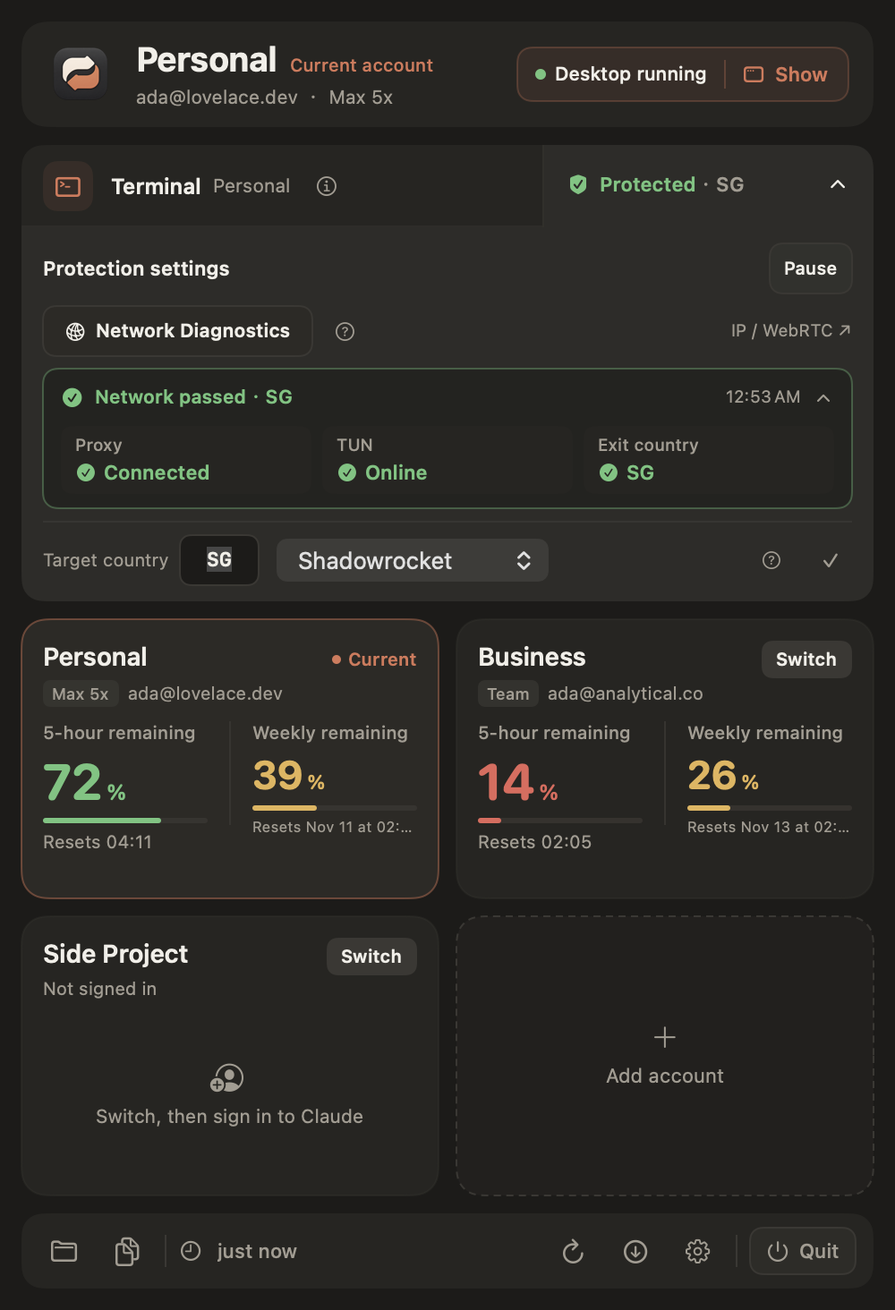
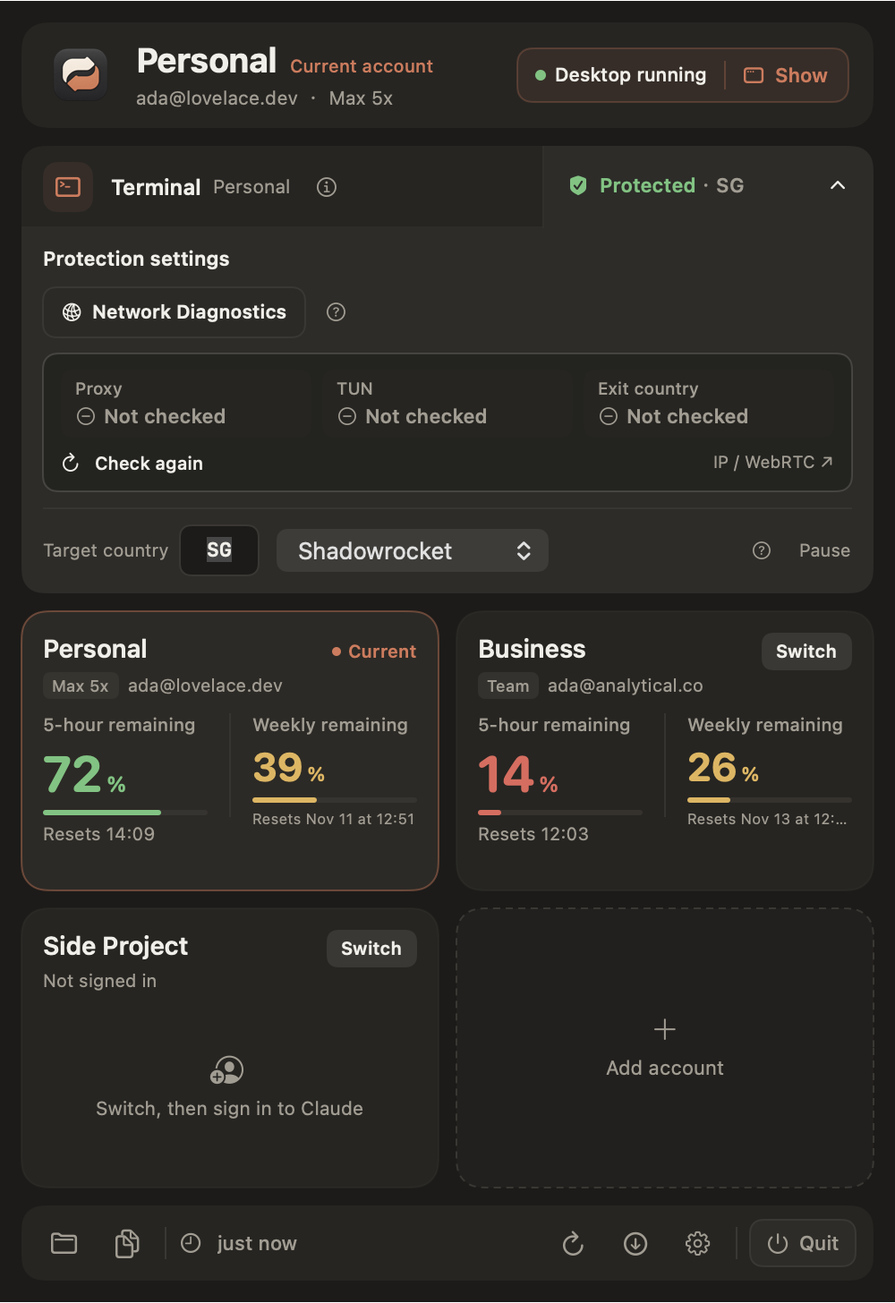
ui: unify network diagnostics and protect active guard

diff --git a/App/ProtectionView.swift b/App/ProtectionView.swift
@@ -704,8 +704,6 @@ struct TerminalProtectionCard: View {
         VStack(alignment: .leading, spacing: 0) {
             HStack(spacing: 0) {
                 TerminalStrip(store: store, showsSecondaryLine: $terminalShowsSecondaryLine)
-                    // The divider closes off the summary side only, so the tinted column runs
-                    // straight into the panel below it like a tab.
                     .overlay(alignment: .bottom) {
                         if showSettings { Rectangle().fill(Color.stroke.opacity(0.4)).frame(height: 1) }
                     }
@@ -754,9 +752,109 @@ struct TerminalProtectionCard: View {
         }
     }
 
+    /// One action row before the first check; the same row becomes the result summary afterwards.
+    private var diagnosticRow: some View {
+        let hasReport = controller.lastCheckReport != nil
+        return HStack(spacing: 5) {
+            Button {
+                if controller.lastCheckReport == nil {
+                    Task { await controller.checkNow() }
+                } else {
+                    resultsExpanded.toggle()
+                }
+            } label: {
+                HStack(spacing: 5) {
+                    if controller.checking {
+                        ProgressView().controlSize(.mini)
+                    } else {
+                        Image(systemName: controller.lastCheckReport == nil ? "network" : displayVerdict.icon)
+                            .font(.system(size: 10, weight: .semibold))
+                    }
+                    Text(controller.checking ? t("common.checking")
+                         : controller.lastCheckReport == nil ? t("protection.checkOnly") : displayVerdict.text)
+                        .lineLimit(1)
+                    if let date = controller.lastCheckReport?.checkedAt, !controller.checking {
+                        Text(AppLocalization.date(date, language: language, timeStyle: .short))
+                            .font(.system(size: 9.5)).foregroundColor(.sub).lineLimit(1)
+                    }
+                    if controller.lastCheckReport != nil, !controller.checking {
+                        Image(systemName: resultsExpanded ? "chevron.up" : "chevron.down")
+                            .font(.system(size: 8, weight: .semibold)).foregroundColor(.sub)
+                    }
+                }
+                .font(.system(size: 10.5, weight: .semibold))
+                .foregroundColor(controller.lastCheckReport == nil ? .txt : displayVerdict.color)
+                .padding(.horizontal, 10).frame(height: 28)
+                    .background(RoundedRectangle(cornerRadius: 7)
+                        .fill(hasReport ? Color.bg.opacity(0.55) : Color.cardHi))
+                    .overlay(RoundedRectangle(cornerRadius: 7)
+                        .stroke(hasReport ? displayVerdict.color.opacity(0.25) : Color.stroke, lineWidth: 1))
+                .contentShape(Rectangle())
+            }
+            .buttonStyle(.plain)
+            .disabled(operationLocked || controller.working || controller.checking)
+            .opacity(operationLocked || controller.working || controller.checking ? 0.55 : 1)
+            .help(reportOriginHelp ?? t("protection.checkOnlyHelp"))
+            .accessibilityLabel(controller.lastCheckReport == nil ? t("protection.checkOnly")
+                                : t("protection.resultsAccessibility", arguments: ["result": displayVerdict.text]))
+            .accessibilityHint(controller.lastCheckReport == nil ? t("protection.checkOnlyHelp")
+                               : t(resultsExpanded ? "protection.collapseResults" : "protection.expandResults"))
+            Button { showCheckHelp.toggle() } label: {
+                Image(systemName: "questionmark.circle")
+                    .font(.system(size: 10.5))
+                    .foregroundColor(helpHover || showCheckHelp ? .txt : .sub)
+                    .frame(width: 24, height: 28)
+                    .contentShape(Rectangle())
+            }
+            .buttonStyle(.plain)
+            .onHover { helpHover = $0 }
+            .help(t("protection.checkHelpSummary"))
+            .accessibilityLabel(t("protection.checkHelpButton"))
+            .popover(isPresented: $showCheckHelp, arrowEdge: .bottom) { checkHelpContent }
+            Spacer(minLength: 0)
+        }
+    }
+
+    private var diagnosticDetails: some View {
+        VStack(alignment: .leading, spacing: 8) {
+            if controller.lastCheckReport != nil, resultsExpanded, !controller.checking {
+                VStack(alignment: .leading, spacing: 7) {
+                    if controller.lastCheckReport?.validationMessage == nil {
+                        HStack(spacing: 6) {
+                            ForEach(networkItems, id: \.title) { networkCell($0) }
+                        }
+                        .opacity(resultStale ? 0.45 : 1)
+                    }
+                    if let note = reportContextNote {
+                        Text(note).font(.system(size: 9.5)).foregroundColor(.warn)
+                            .fixedSize(horizontal: false, vertical: true)
+                    }
+                    HStack(spacing: 8) {
+                        Button { Task { await controller.checkNow() } } label: {
+                            Label(t("protection.recheck"), systemImage: "arrow.clockwise")
+                                .font(.system(size: 10, weight: .medium))
+                        }
+                        .buttonStyle(.plain).foregroundColor(.txt)
+                        .disabled(operationLocked || controller.working)
+                        .help(t("protection.checkOnlyHelp"))
+                        Spacer(minLength: 0)
+                        Link(destination: URL(string: "https://ip.net.coffee/claude/")!) {
+                            Text("IP / WebRTC ↗").font(.system(size: 9.5)).foregroundColor(.sub)
+                        }
+                        .buttonStyle(.plain)
+                        .help(t("protection.webCheckHelp"))
+                        .accessibilityLabel(t("protection.webCheckAccessibility"))
+                    }
+                }
+                .padding(.horizontal, 10).padding(.vertical, 9)
+                .background(RoundedRectangle(cornerRadius: 8).fill(Color.bg.opacity(0.3)))
+            }
+        }
+    }
+
     private var settings: some View {
         let scopeHelp = t(controller.desktopScope == .api ? "protection.apiServiceControlHelp" : "protection.scopeExplanation")
-        return VStack(alignment: .leading, spacing: 7) {
+        return VStack(alignment: .leading, spacing: 9) {
             if hasNotices {
                 VStack(alignment: .leading, spacing: 8) { notices }
             }
@@ -767,49 +865,10 @@ struct TerminalProtectionCard: View {
                     .help(scopeHelp)
                     .accessibilityHint(scopeHelp)
                 Spacer(minLength: 8)
-                protectionAction()
+                if !controller.enabled || needsRetry { protectionAction() }
             }
-            HStack(spacing: 4) {
-                Button { Task { await controller.checkNow() } } label: {
-                    HStack(spacing: 5) {
-                        Image(systemName: "network").font(.system(size: 10, weight: .semibold))
-                        Text(t(controller.checking ? "common.checking" : "protection.checkOnly"))
-                            .font(.system(size: 10.5, weight: .semibold))
-                    }
-                    .padding(.horizontal, 12)
-                    .frame(height: 28)
-                    .foregroundColor(.txt)
-                    .background(RoundedRectangle(cornerRadius: 7).fill(Color.cardHi))
-                    .overlay(RoundedRectangle(cornerRadius: 7).stroke(Color.stroke, lineWidth: 1))
-                    .contentShape(Rectangle())
-                }
-                .buttonStyle(.plain).disabled(operationLocked || controller.working || controller.checking)
-                .opacity(operationLocked || controller.working || controller.checking ? 0.55 : 1)
-                .help(t("protection.checkOnlyHelp"))
-                .accessibilityHint(t("protection.checkOnlyHelp"))
-                Button { showCheckHelp.toggle() } label: {
-                    Image(systemName: "questionmark.circle")
-                        .font(.system(size: 10.5))
-                        .foregroundColor(helpHover || showCheckHelp ? .txt : .sub)
-                        .frame(width: 28, height: 28)
-                        .background(RoundedRectangle(cornerRadius: 7)
-                            .fill(Color.white.opacity(helpHover || showCheckHelp ? 0.06 : 0)))
-                        .contentShape(Rectangle())
-                }
-                .buttonStyle(.plain)
-                .onHover { helpHover = $0 }
-                .help(t("protection.checkHelpSummary"))
-                .accessibilityLabel(t("protection.checkHelpButton"))
-                .popover(isPresented: $showCheckHelp, arrowEdge: .bottom) { checkHelpContent }
-                Spacer(minLength: 8)
-                Link(destination: URL(string: "https://ip.net.coffee/claude/")!) {
-                    Text("IP / WebRTC ↗").font(.system(size: 9.5)).foregroundColor(.sub)
-                }
-                .buttonStyle(.plain)
-                .help(t("protection.webCheckHelp"))
-                .accessibilityLabel(t("protection.webCheckAccessibility"))
-            }
-            checkResults
+            diagnosticRow
+            diagnosticDetails
             Divider().opacity(0.45)
             HStack(alignment: .center, spacing: 10) {
                 HStack(spacing: 6) {
@@ -869,11 +928,15 @@ struct TerminalProtectionCard: View {
                         .opacity(operationLocked || controller.working ? 0.55 : 1)
                         .help(t("protection.saveHelp"))
                     } else {
-                        Image(systemName: "checkmark")
-                            .font(.system(size: 9, weight: .semibold)).foregroundColor(.sub)
-                            .frame(width: 24, height: 28)
-                            .help(t("protection.savedHelp"))
-                            .accessibilityHint(t("protection.savedHelp"))
+                        Button(action: runProtectionAction) {
+                            Text(primaryProtectionTitle)
+                                .font(.system(size: 10)).foregroundColor(.sub)
+                                .frame(height: 28).contentShape(Rectangle())
+                        }
+                        .buttonStyle(.plain)
+                        .disabled(operationLocked || controller.working)
+                        .help(t("protection.primaryHelp"))
+                        .accessibilityLabel(primaryProtectionTitle)
                     }
                 }
             }
@@ -884,7 +947,7 @@ struct TerminalProtectionCard: View {
                     .padding(.top, -4)
             }
         }
-        .padding(.horizontal, 12).padding(.vertical, 9)
+        .padding(.horizontal, 12).padding(.vertical, 10)
         .frame(maxWidth: .infinity, alignment: .leading)
     }
 }

diff --git a/App/AppLocalization.swift b/App/AppLocalization.swift
@@ -745,6 +745,7 @@ enum AppLocalization {
             "protection.webCheckHelp": "第三方网页体检，结果仅供参考，不作为打开 Claude 的门禁",
             "protection.webCheckAccessibility": "第三方 IP 与 WebRTC 体检，仅供参考",
             "protection.checkOnly": "网络诊断",
+            "protection.recheck": "重新诊断",
             "protection.checkOnlyHelp": "只读检查当前输入；不保存设置、不改变保护状态，也不打开 Claude。诊断结果以本卡片为准。",
             "protection.checkResultsTitle": "结果判定",
             "protection.checkResultsHelp": "结果仅属本次诊断；打开或切换会重新检查。手动诊断不改变保护状态。",
@@ -1139,6 +1140,7 @@ enum AppLocalization {
             "protection.webCheckHelp": "Third-party web check for reference only; not used by the Claude launch gate",
             "protection.webCheckAccessibility": "Third-party IP and WebRTC check, for reference only",
             "protection.checkOnly": "Network Diagnostics",
+            "protection.recheck": "Check again",
             "protection.checkOnlyHelp": "Read-only check of the current input. Does not save settings, change protection, or open Claude. Results belong to this check.",
             "protection.checkResultsTitle": "Results",
             "protection.checkResultsHelp": "Results are for this diagnostic only. Opening or switching rechecks. Manual diagnostics do not change protection.",

diff --git a/scripts/fixtures/controller-check.swift b/scripts/fixtures/controller-check.swift
@@ -288,6 +288,14 @@ actor FixtureGuardWorker: GuardWorking {
   require(demo.operationError != nil && demo.lastDecision == original && demo.guardOnline, "invalid input cannot replace runtime health")
   demo.clearOperationError(); demo.disable(); demo.country = "SG"; await demo.checkNow()
   require(!demo.enabled && !demo.guardOnline && demo.lastCheckReport?.passed == true, "readonly result cannot enable protection")
+  await demo.enable()
+  await demo.protectCurrentDesktop()
+  let protectedDecision = demo.lastDecision
+  let protectedGuardTime = demo.guardCheckedAt
+  await demo.checkNow()
+  require(demo.enabled && demo.guardOnline && demo.desktopManaged && demo.lastDecision == protectedDecision
+          && demo.guardCheckedAt == protectedGuardTime,
+          "diagnosing while protected preserves the switch, desktop binding and guard decision")
   let recordedGuardTime = demo.guardCheckedAt
   demo.country = "JP"; await demo.checkNow()
   require(demo.activeCountry == "SG" && demo.lastCheckReport?.passed == false, "draft target is not saved target")

diff --git a/scripts/test-developer-id-release.py b/scripts/test-developer-id-release.py
@@ -22,8 +22,8 @@ class SigningChecks(unittest.TestCase):
         self.assertEqual(info["CFBundleIdentifier"], "dev.claudeswitcher.candidate")
         self.assertEqual(info["CFBundleShortVersionString"], "1.3.6")
         self.assertEqual(info["CSReleaseChannel"], "preview")
-        self.assertEqual(info["CSReleaseVersion"], "1.3.6-rc.11")
-        self.assertEqual(info["CFBundleVersion"], "20261109.11.0")
+        self.assertEqual(info["CSReleaseVersion"], "1.3.6-rc.12")
+        self.assertEqual(info["CFBundleVersion"], "20261109.12.0")
         self.assertIn("预览", info["CFBundleDisplayName"])
         self.assertIn("预览", info["CFBundleName"])
         self.assertFalse(any(k.startswith("CSPreview") for k in info))
@@ -99,8 +99,8 @@ class SigningChecks(unittest.TestCase):
             with patch.object(release, "ROOT", root), patch.object(release, "pinned_team", return_value="FAKE123456"), \
                  patch.object(release, "run", side_effect=fake_run), patch.object(sys, "argv", ["release", "prepare"]):
                 release.main()
-            manifest = json.loads((root / "dist/developer-id/1.3.6-rc.11/RELEASE-MANIFEST.json").read_text())
-            self.assertEqual(manifest["release"], "1.3.6-rc.11")
+            manifest = json.loads((root / "dist/developer-id/1.3.6-rc.12/RELEASE-MANIFEST.json").read_text())
+            self.assertEqual(manifest["release"], "1.3.6-rc.12")
             self.assertEqual(manifest["candidateCommit"], "c" * 40)
             self.assertEqual(Path(manifest["appPath"]).name, "Claude Switcher Preview.app")
             self.assertEqual(release.DR_BASELINE_APP_NAME, "Claude Switcher Preview.app")

diff --git a/scripts/developer-id-release.py b/scripts/developer-id-release.py
@@ -10,8 +10,8 @@ import subprocess
 import sys
 
 ROOT = Path(__file__).resolve().parent.parent
-RELEASE = "1.3.6-rc.11"
-BUILD = "20261109.11.0"
+RELEASE = "1.3.6-rc.12"
+BUILD = "20261109.12.0"
 DR_BASELINE_DIRECTORY = ROOT / "dist/developer-id/1.3.6-rc.6-final"
 DR_BASELINE_APP_NAME = "Claude Switcher Preview.app"
 BUNDLE_ID = "dev.claudeswitcher.candidate"

diff --git a/README.en.md b/README.en.md
@@ -14,9 +14,9 @@ Accounts, usage, sessions and network checks meet in one place.
 [![License](https://img.shields.io/github/license/liuquanqing/claude-switcher)](LICENSE)
 [![macOS checks](https://github.com/liuquanqing/claude-switcher/actions/workflows/ci.yml/badge.svg)](https://github.com/liuquanqing/claude-switcher/actions/workflows/ci.yml)
 
-[![Download macOS DMG](https://img.shields.io/badge/macOS-Download_DMG-C66B4E?style=for-the-badge&logo=apple&logoColor=white)](https://github.com/liuquanqing/claude-switcher/releases/download/v1.3.6-rc.11/ClaudeSwitcher-1.3.6-rc.11-arm64-developer-id-preview.dmg)
+[![Download macOS DMG](https://img.shields.io/badge/macOS-Download_DMG-C66B4E?style=for-the-badge&logo=apple&logoColor=white)](https://github.com/liuquanqing/claude-switcher/releases/download/v1.3.6-rc.12/ClaudeSwitcher-1.3.6-rc.12-arm64-developer-id-preview.dmg)
 
-**1.3.6 RC11 · Preview** · Apple Silicon · macOS 13+
+**1.3.6 RC12 · Preview** · Apple Silicon · macOS 13+
 
 [Download](#download) · [Features](#features) · [Quick start](#quick-start) · [Scope](#scope) · [中文](README.md)
 
@@ -80,13 +80,13 @@ All account details in these screenshots are fictional. See [bilingual protectio
 
 ## Download
 
-Version 1.3.6 RC11 refreshes subscription usage from Desktop without requiring CLI sign-in, improves CLI reuse and backup recovery, and simplifies terminal status, session import and protection settings. See [release notes](docs/releases/1.3.6-rc.11.md).
+Version 1.3.6 RC12 refreshes subscription usage from Desktop without requiring CLI sign-in, improves CLI reuse and backup recovery, and simplifies terminal status, session import and protection settings. See [release notes](docs/releases/1.3.6-rc.12.md).
 
-**[Download Claude Switcher 1.3.6 RC11 · macOS DMG](https://github.com/liuquanqing/claude-switcher/releases/download/v1.3.6-rc.11/ClaudeSwitcher-1.3.6-rc.11-arm64-developer-id-preview.dmg)**
+**[Download Claude Switcher 1.3.6 RC12 · macOS DMG](https://github.com/liuquanqing/claude-switcher/releases/download/v1.3.6-rc.12/ClaudeSwitcher-1.3.6-rc.12-arm64-developer-id-preview.dmg)**
 
 For **Apple Silicon (M1 or newer) · macOS 13+**. Open the DMG and drag `Claude Switcher.app` to Applications.
 
-[Release notes](https://github.com/liuquanqing/claude-switcher/releases/tag/v1.3.6-rc.11) · [SHA256 checksums](https://github.com/liuquanqing/claude-switcher/releases/download/v1.3.6-rc.11/SHA256SUMS) · [All releases](https://github.com/liuquanqing/claude-switcher/releases)
+[Release notes](https://github.com/liuquanqing/claude-switcher/releases/tag/v1.3.6-rc.12) · [SHA256 checksums](https://github.com/liuquanqing/claude-switcher/releases/download/v1.3.6-rc.12/SHA256SUMS) · [All releases](https://github.com/liuquanqing/claude-switcher/releases)
 
 This prerelease is Developer ID signed and notarized by Apple. Normal first-open and Keychain prompts may still apply. [Stable 1.3.5](https://github.com/liuquanqing/claude-switcher/releases/tag/v1.3.5) remains available; see each release for signing status and [the installation guide](docs/INSTALL.md).
 

diff --git a/README.md b/README.md
@@ -14,9 +14,9 @@
 [![License](https://img.shields.io/github/license/liuquanqing/claude-switcher)](LICENSE)
 [![macOS checks](https://github.com/liuquanqing/claude-switcher/actions/workflows/ci.yml/badge.svg)](https://github.com/liuquanqing/claude-switcher/actions/workflows/ci.yml)
 
-[![下载 macOS DMG](https://img.shields.io/badge/macOS-%E4%B8%8B%E8%BD%BD_DMG-C66B4E?style=for-the-badge&logo=apple&logoColor=white)](https://github.com/liuquanqing/claude-switcher/releases/download/v1.3.6-rc.11/ClaudeSwitcher-1.3.6-rc.11-arm64-developer-id-preview.dmg)
+[![下载 macOS DMG](https://img.shields.io/badge/macOS-%E4%B8%8B%E8%BD%BD_DMG-C66B4E?style=for-the-badge&logo=apple&logoColor=white)](https://github.com/liuquanqing/claude-switcher/releases/download/v1.3.6-rc.12/ClaudeSwitcher-1.3.6-rc.12-arm64-developer-id-preview.dmg)
 
-**1.3.6 RC11 · 预览版** · Apple Silicon · macOS 13+
+**1.3.6 RC12 · 预览版** · Apple Silicon · macOS 13+
 
 [下载](#下载) · [核心能力](#核心能力) · [快速开始](#快速开始) · [边界与验证](#边界与验证) · [English](README.en.md)
 
@@ -125,13 +125,13 @@ English
 
 ## 下载
 
-1.3.6 RC11 恢复桌面账号独立查询订阅额度，不要求 CLI 登录；优化 CLI 复用与备份恢复，并精简终端状态、会话导入和保护设置。详见[本版说明](docs/releases/1.3.6-rc.11.md)。
+1.3.6 RC12 恢复桌面账号独立查询订阅额度，不要求 CLI 登录；优化 CLI 复用与备份恢复，并精简终端状态、会话导入和保护设置。详见[本版说明](docs/releases/1.3.6-rc.12.md)。
 
-**[下载 Claude Switcher 1.3.6 RC11 · macOS DMG](https://github.com/liuquanqing/claude-switcher/releases/download/v1.3.6-rc.11/ClaudeSwitcher-1.3.6-rc.11-arm64-developer-id-preview.dmg)**
+**[下载 Claude Switcher 1.3.6 RC12 · macOS DMG](https://github.com/liuquanqing/claude-switcher/releases/download/v1.3.6-rc.12/ClaudeSwitcher-1.3.6-rc.12-arm64-developer-id-preview.dmg)**
 
 适用于 **Apple Silicon（M1 及更新芯片）· macOS 13+**。打开 DMG，将预览应用拖入“应用程序”。启用独立守卫的旧版本请先阅读升级说明，保留它使用的运行组件。
 
-[版本说明](https://github.com/liuquanqing/claude-switcher/releases/tag/v1.3.6-rc.11) · [SHA256 校验文件](https://github.com/liuquanqing/claude-switcher/releases/download/v1.3.6-rc.11/SHA256SUMS) · [所有版本](https://github.com/liuquanqing/claude-switcher/releases)
+[版本说明](https://github.com/liuquanqing/claude-switcher/releases/tag/v1.3.6-rc.12) · [SHA256 校验文件](https://github.com/liuquanqing/claude-switcher/releases/download/v1.3.6-rc.12/SHA256SUMS) · [所有版本](https://github.com/liuquanqing/claude-switcher/releases)
 
 > 本预览版使用 Developer ID 签名并通过 Apple 公证，仍可能需要正常的首次打开及钥匙串授权。[1.3.5 正式版](https://github.com/liuquanqing/claude-switcher/releases/tag/v1.3.5)保留，签名状态以各版本说明为准。升级与卸载见[安装说明](docs/INSTALL.md)。
 

diff --git a/docs/INSTALL.md b/docs/INSTALL.md
@@ -2,7 +2,7 @@
 
 Claude Switcher 常驻菜单栏，安装后不会自动接管 Claude。完成账号设置，或主动开启保护后，才会参与相应的切换与检查流程。
 
-适用版本：`v1.3.6-rc.9`（预览版）；1.3.5 正式版入口保留。
+适用版本：`v1.3.6-rc.12`（预览版）；1.3.5 正式版入口保留。
 
 ## 系统要求
 
@@ -11,7 +11,7 @@ Claude Switcher 常驻菜单栏，安装后不会自动接管 Claude。完成账
 
 ## 1. 下载并校验
 
-推荐直接[下载 macOS DMG](https://github.com/liuquanqing/claude-switcher/releases/download/v1.3.6-rc.9/ClaudeSwitcher-1.3.6-rc.9-arm64-developer-id-preview.dmg)，打开后将应用拖入“应用程序”。也可以在[当前版本的 Release 页面](https://github.com/liuquanqing/claude-switcher/releases/tag/v1.3.6-rc.9)下载：
+推荐直接[下载 macOS DMG](https://github.com/liuquanqing/claude-switcher/releases/download/v1.3.6-rc.12/ClaudeSwitcher-1.3.6-rc.12-arm64-developer-id-preview.dmg)，打开后将应用拖入“应用程序”。也可以在[当前版本的 Release 页面](https://github.com/liuquanqing/claude-switcher/releases/tag/v1.3.6-rc.12)下载：
 
 - `.dmg` 或 `.zip`（二选一）
 - `SHA256SUMS`
@@ -27,9 +27,9 @@ cat SHA256SUMS
 
 ## 预览版与已有守卫
 
-RC6 及更早的 Preview 需先安装一次完整 RC9 包，此后可在设置中「检查更新」，下载验证后安装并重启。普通升级不替换账号登录或迁移会话。
+RC6 及更早的 Preview 需先安装一次完整 RC12 包，此后可在设置中「检查更新」，下载验证后安装并重启。普通升级不替换账号登录或迁移会话。
 
-本页默认下载 RC9 预览版；需要旧正式版可到 [1.3.5 Release](https://github.com/liuquanqing/claude-switcher/releases/tag/v1.3.5)。旧附件保留原签名状态。已经注册守卫的用户，请先核对 LaunchAgent 引用的组件路径，不能为了清理旧 GUI 直接删除它。手动迁移或停用服务须按具体升级方案执行，本页不提供自动停止守卫操作。[已有守卫兼容路径说明](releases/1.3.6-rc.2-delivery.md)解释了如何保留兼容运行组件。
+本页默认下载 RC12 预览版；需要旧正式版可到 [1.3.5 Release](https://github.com/liuquanqing/claude-switcher/releases/tag/v1.3.5)。旧附件保留原签名状态。已经注册守卫的用户，请先核对 LaunchAgent 引用的组件路径，不能为了清理旧 GUI 直接删除它。手动迁移或停用服务须按具体升级方案执行，本页不提供自动停止守卫操作。[已有守卫兼容路径说明](releases/1.3.6-rc.2-delivery.md)解释了如何保留兼容运行组件。
 
 ## 2. 拖进“应用程序”
 

diff --git a/docs/releases/1.3.6-rc.12.md b/docs/releases/1.3.6-rc.12.md
@@ -1,0 +1,15 @@
+# 1.3.6 RC12 · 预览版
+
+本版在 RC11 的账号、终端和会话流程基础上，进一步收敛保护设置，并明确网络诊断不会取消保护。
+
+- 未检查时显示「网络诊断」，检查后就地显示通过结果或具体失败原因；点击同一位置展开代理、TUN 和出口详情。
+- 详情内提供「重新诊断」，第三方 IP / WebRTC 体检作为辅助入口放在详情中，不影响保护门禁。
+- 保护暂停改为低强调操作；草稿未保存时仍保留明确的「保存更改」，不牺牲配置修改能力。
+- 增加回归：保护中执行网络诊断，保护开关、桌面绑定、守卫判断和回执时间均保持不变。
+- 保留 RC11 的桌面账号独立额度查询、CLI 复用与旧备份恢复、会话导入及底部直接刷新。
+
+支持 Apple Silicon、macOS 13+。本版为公开预览，1.3.5 保持正式 latest；升级不会替你切号、恢复凭据或迁移真实会话。
+
+完整验证、签名、公证、分发和本机安装结果见 [RC12 交付记录](1.3.6-rc.12-delivery.md)。
+
+![保护设置与网络诊断](../images/rc12/protection-settings-zh.png)

diff --git a/docs/releases/1.3.6-rc.12-delivery.md b/docs/releases/1.3.6-rc.12-delivery.md
@@ -1,0 +1,18 @@
+# RC12 交付记录
+
+版本 `1.3.6-rc.12`，构建 `20261109.12.0`。本版为公开预览，1.3.5 保持正式 latest。
+
+## 实现
+
+- 网络诊断操作与结果合并，结果行控制详情展开；失败时保留具体出口与目标国家。
+- 第三方 IP / WebRTC 体检位于结果详情，不与主动诊断并列。
+- 暂停保护降低视觉强调，草稿保存入口不变。
+- 现场只读核对：网络诊断未关闭后台守卫；`enabled=true`，守卫注册且回执持续更新。当前桌面记录为未纳入，这不等于后台守卫被诊断暂停。
+
+## 验证
+
+- 256 项 Swift Core 测试通过。
+- 483 项控制器/Store 回归通过；新增保护中诊断不改变开关、桌面绑定、守卫判断和回执时间的检查。
+- 虚构数据截图复核普通与 API 模式的诊断通过、国家不符、收起、草稿、暂停及中英文布局；没有用真实账号或网络故障作为测试夹具。
+
+签名、公证、云端 CI、公开回读和本机安装结果在完成后补记；各项独立成立，不以本地测试替代。
